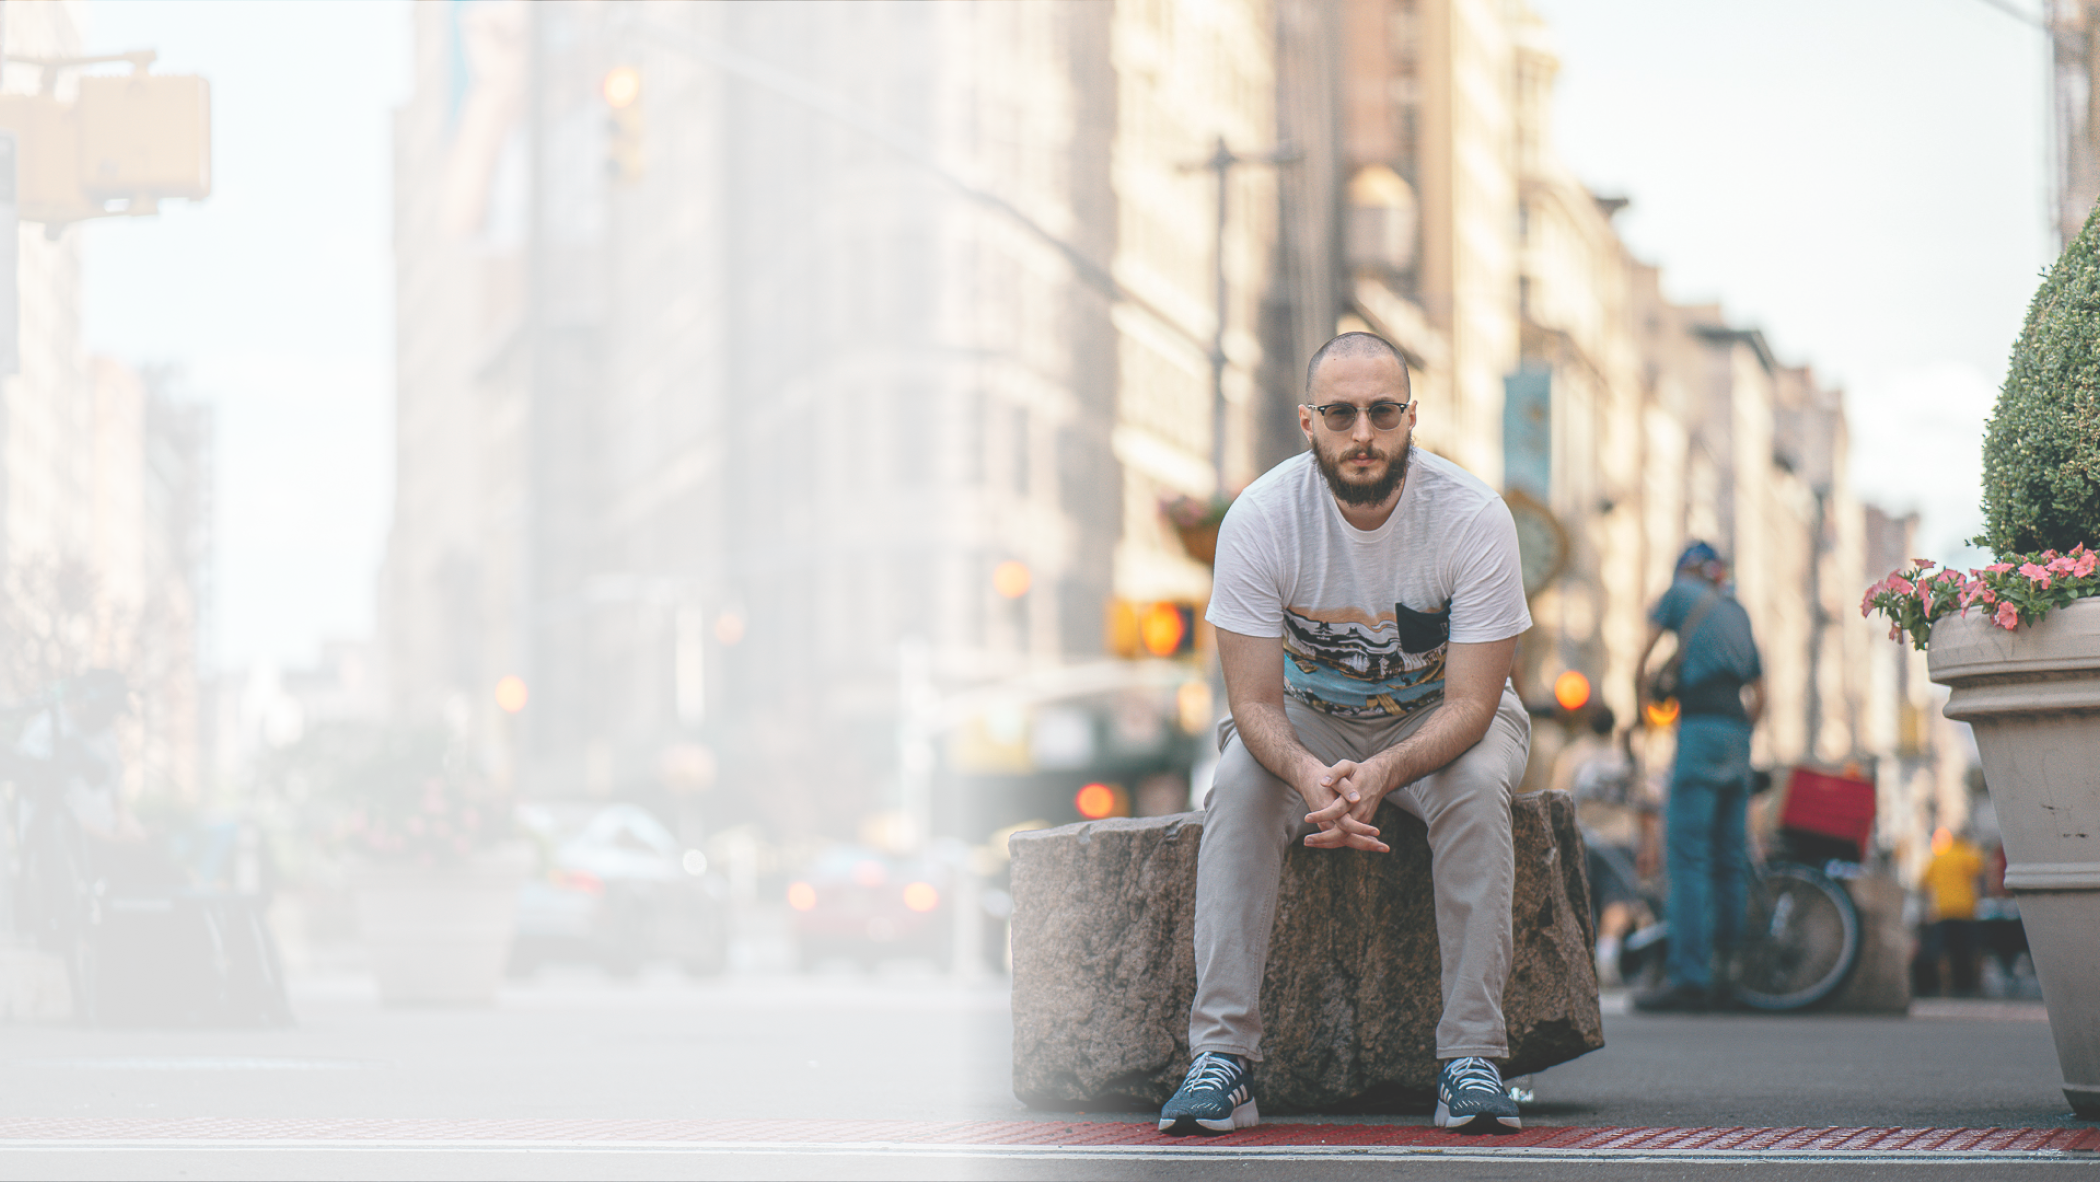
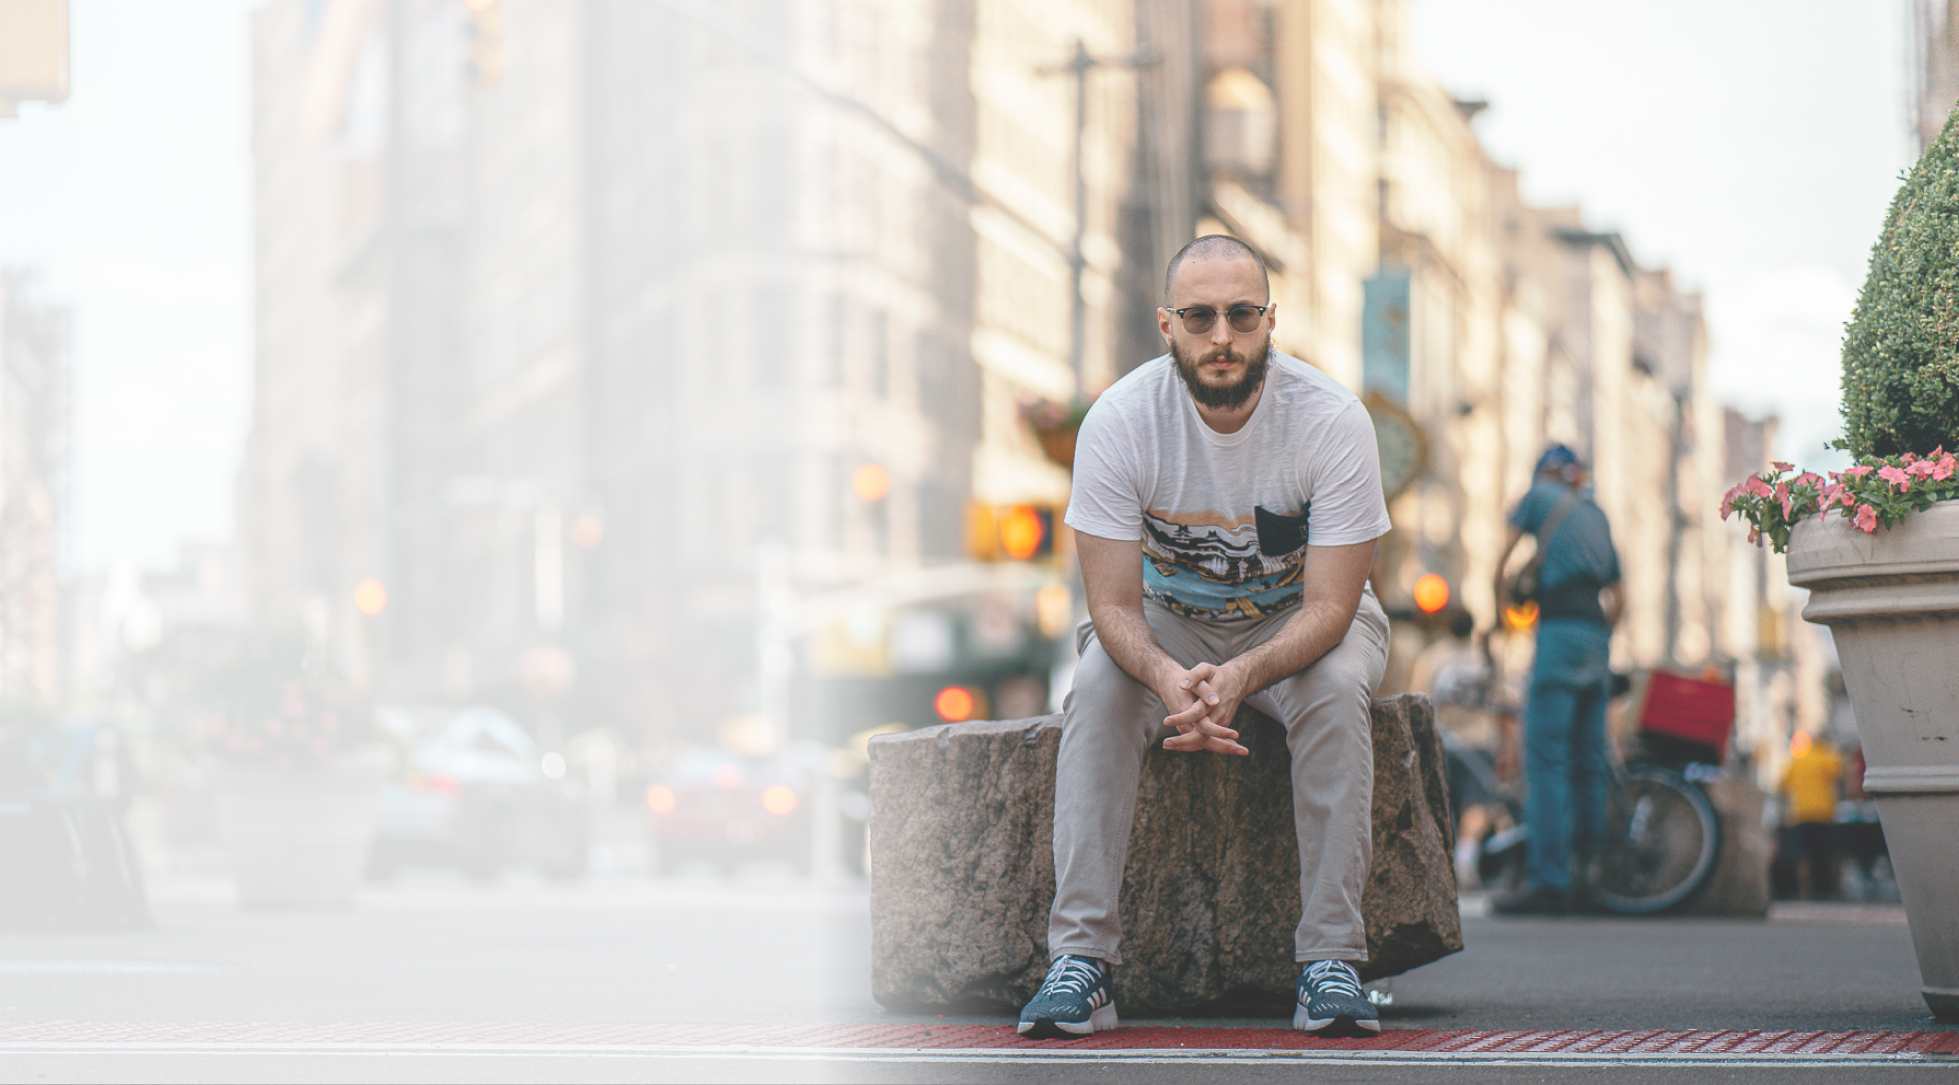
navbar and main section tweaks

diff --git a/src/App.scss b/src/App.scss
@@ -24,7 +24,7 @@ nav {
   .navbar-text {
     font-weight: bold;
     color: var(--background-color-light);
-    font-size: 1.2rem;
+    font-size: max(0.7vw + 10px);
     padding: 10px;
   }
   ul {
@@ -58,7 +58,7 @@ nav {
   background-size: cover;
   background-position: center;
   width: 100vw;
-  height: 100vh;
+  height: 95vh;
   .main-text {
     font-size: calc(16px + 6 * (100vw / 680));
     width: 50vw;
@@ -97,6 +97,7 @@ nav {
 .skillset-section {
   background: var(--background-color-dark);
   width: 100vw;
+  padding-bottom: 1vh;
   .skillset-text {
     color: var(--background-color-light);
     text-align: center;
@@ -123,8 +124,9 @@ nav {
   }
 
   .skillset-icon-box {
-    height: 6vw;
-    width: 6vw;
+    // padding-top: 3vh;
+    height: calc(7vh + 2px);
+    width: calc(7vw + 2px);
     margin: 1.6vw;
     background: #727272;
     border: 1px solid #5f5f5f;
@@ -140,7 +142,7 @@ nav {
     object-fit: contain;
     width: 70%;
     height: 70%;
-    padding-top: 1vh;
+    // padding-top: 1vh;
   }
 }
 
@@ -177,9 +179,9 @@ nav {
 }
 
 .contactme-content {
-  .contactme-resume {
-    overflow: scroll;
-  }
+  // .contactme-resume {
+  //   overflow: scroll;
+  // }
   padding-left: 11vw;
   .contactme-icon {
     margin: 0 1vw 3vh 1vw;
@@ -211,6 +213,9 @@ nav {
     }
   }
   @media screen and (max-width: 1492px) {
+    // .main-section {
+    //   height: 100px;
+    // }
     .vl {
       display: none;
     }

diff --git a/src/components/Skillset.js b/src/components/Skillset.js
@@ -12,8 +12,8 @@ const Skillset = () => {
         <p>Background:</p>
         <p className='credentials'>Flatiron School's Access Labs Graduate</p>
         <p className='credentials'>Bachelor's Degree in Criminal Justice</p>
-        <p>from CUNY John Jay College</p>
-        <br />
+        <p>from John Jay College</p>
+        {/* <br /> */}
         <p>Skills:</p>
       </div>
       <div className='skillset-icons-div-1'>
